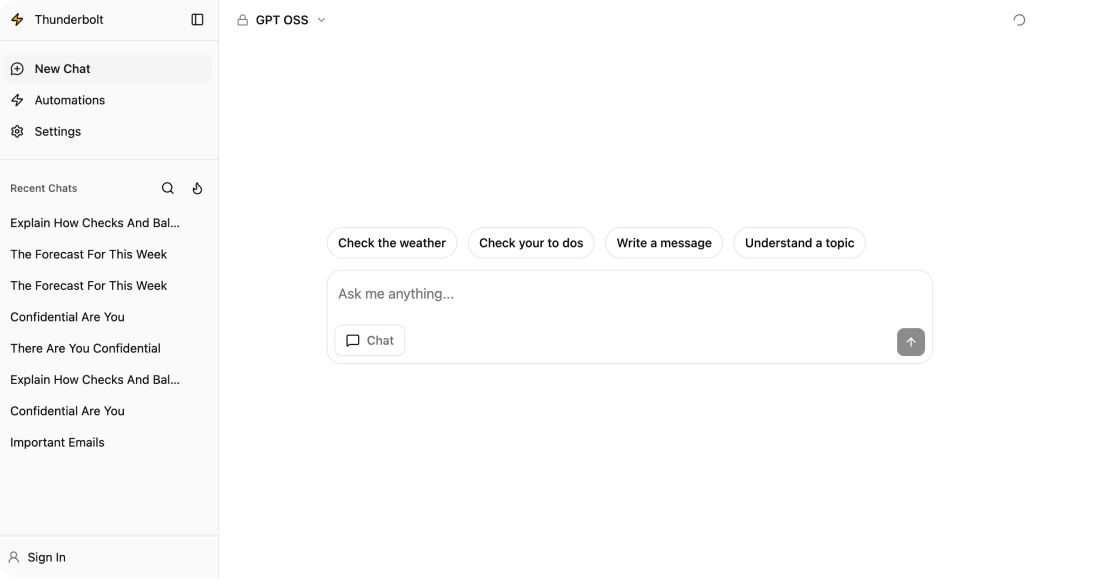
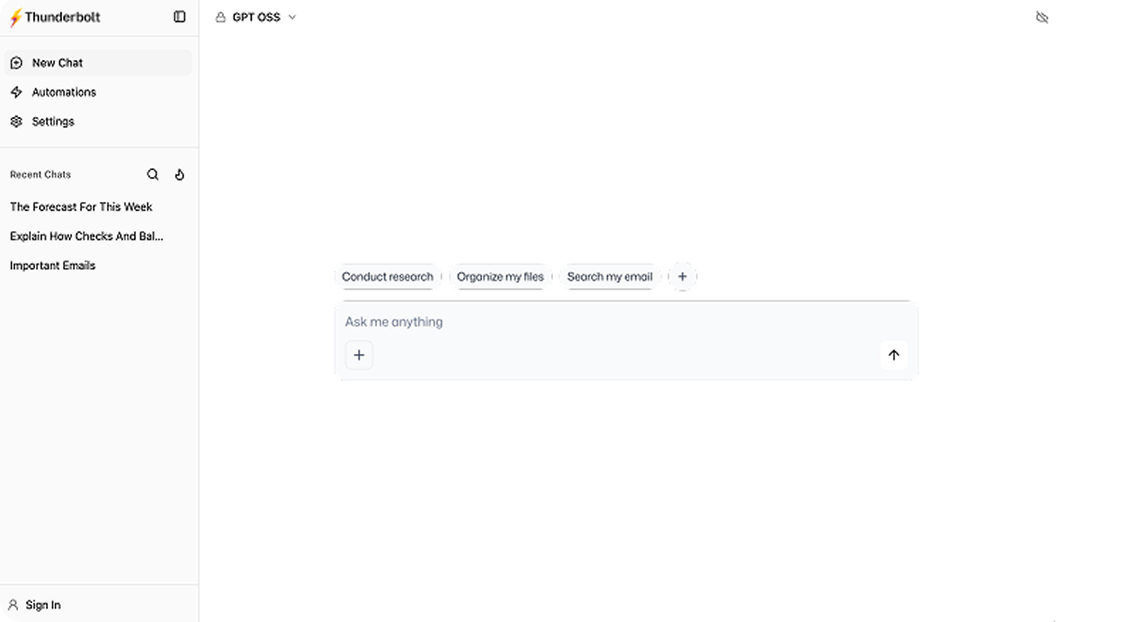
fix: update social preview and hero images

diff --git a/marketing/src/components/sections/enterprise-page.tsx b/marketing/src/components/sections/enterprise-page.tsx
@@ -44,7 +44,7 @@ const PromptCard = ({ pillGapClass = 'gap-1.5 sm:gap-2' }: { pillGapClass?: stri
     <div className="absolute -bottom-[12px] -right-[12px] size-[23px] bg-[#eaecf0]" />
     <div className="border-[0.5px] border-[#eaecf0] bg-gradient-to-b from-[rgba(241,241,241,0.3)] to-[rgba(228,228,228,0.3)] p-5 backdrop-blur-[5px]">
       <div className={`flex items-center ${pillGapClass}`}>
-        {['Check the weather', 'Write a message', 'Check the schedule'].map((label) => (
+        {['Conduct research', 'Organize my files', 'Search my email'].map((label) => (
           <span key={label} className="shrink-0 rounded-full bg-white px-2 py-1 text-[9px] sm:px-3.5 sm:py-1.5 sm:text-[11px] whitespace-nowrap text-[#344054] shadow-[0px_2px_8px_0px_rgba(0,0,0,0.08)]">
             {label}
           </span>
@@ -60,6 +60,125 @@ const PromptCard = ({ pillGapClass = 'gap-1.5 sm:gap-2' }: { pillGapClass?: stri
       </div>
     </div>
   </>
+)
+
+/* ─── Desktop Mockup (inline SVG with clipped screenshot) */
+
+const DesktopMockup = () => (
+  <svg viewBox="0 0 726 350" fill="none" xmlns="http://www.w3.org/2000/svg" className="relative w-full">
+    <defs>
+      <clipPath id="desktop-screen-clip">
+        <rect x="89.207" y="19.834" width="547.279" height="290.599" />
+      </clipPath>
+      <filter id="filter0_i" x="0.675171" y="331.449" width="724.651" height="3.94098" filterUnits="userSpaceOnUse" colorInterpolationFilters="sRGB">
+        <feFlood floodOpacity="0" result="BackgroundImageFix" />
+        <feBlend mode="normal" in="SourceGraphic" in2="BackgroundImageFix" result="shape" />
+        <feColorMatrix in="SourceAlpha" type="matrix" values="0 0 0 0 0 0 0 0 0 0 0 0 0 0 0 0 0 0 127 0" result="hardAlpha" />
+        <feOffset dy="1.53255" />
+        <feComposite in2="hardAlpha" operator="arithmetic" k2="-1" k3="1" />
+        <feColorMatrix type="matrix" values="0 0 0 0 0 0 0 0 0 0 0 0 0 0 0 0 0 0 0.02 0" />
+        <feBlend mode="normal" in2="shape" result="effect1_innerShadow" />
+      </filter>
+      <filter id="filter1_i" x="293.499" y="331.446" width="138.655" height="5.25488" filterUnits="userSpaceOnUse" colorInterpolationFilters="sRGB">
+        <feFlood floodOpacity="0" result="BackgroundImageFix" />
+        <feBlend mode="normal" in="SourceGraphic" in2="BackgroundImageFix" result="shape" />
+        <feColorMatrix in="SourceAlpha" type="matrix" values="0 0 0 0 0 0 0 0 0 0 0 0 0 0 0 0 0 0 127 0" result="hardAlpha" />
+        <feOffset dy="1.53255" />
+        <feComposite in2="hardAlpha" operator="arithmetic" k2="-1" k3="1" />
+        <feColorMatrix type="matrix" values="0 0 0 0 0 0 0 0 0 0 0 0 0 0 0 0 0 0 0.03 0" />
+        <feBlend mode="normal" in2="shape" result="effect1_innerShadow" />
+      </filter>
+      <linearGradient id="paint0" x1="0.337891" y1="335.718" x2="725.663" y2="335.718" gradientUnits="userSpaceOnUse">
+        <stop stopOpacity="0.04" />
+        <stop offset="1" stopColor="white" stopOpacity="0.04" />
+      </linearGradient>
+      <linearGradient id="paint1" x1="732.498" y1="330.551" x2="697.996" y2="330.551" gradientUnits="userSpaceOnUse">
+        <stop />
+        <stop offset="1" stopColor="white" />
+        <stop offset="1" stopColor="white" />
+      </linearGradient>
+      <linearGradient id="paint2" x1="0.337891" y1="335.718" x2="28.0015" y2="335.718" gradientUnits="userSpaceOnUse">
+        <stop />
+        <stop offset="1" stopColor="white" />
+        <stop offset="1" stopColor="white" />
+      </linearGradient>
+      <linearGradient id="paint3" x1="0" y1="349.181" x2="726" y2="349.181" gradientUnits="userSpaceOnUse">
+        <stop stopOpacity="0.07" />
+        <stop offset="1" stopColor="#EAEAEA" stopOpacity="0.07" />
+        <stop offset="1" stopColor="white" stopOpacity="0.07" />
+      </linearGradient>
+      <linearGradient id="paint4" x1="0" y1="349.181" x2="726" y2="349.181" gradientUnits="userSpaceOnUse">
+        <stop stopOpacity="0.07" />
+        <stop offset="1" stopColor="#EAEAEA" stopOpacity="0.07" />
+        <stop offset="1" stopColor="white" stopOpacity="0.07" />
+      </linearGradient>
+      <linearGradient id="paint5" x1="0" y1="334.731" x2="0" y2="349.181" gradientUnits="userSpaceOnUse">
+        <stop stopOpacity="0.07" />
+        <stop offset="1" stopColor="white" stopOpacity="0.07" />
+      </linearGradient>
+      <linearGradient id="paint6" x1="0" y1="334.731" x2="0" y2="349.181" gradientUnits="userSpaceOnUse">
+        <stop stopColor="white" stopOpacity="0.05" />
+        <stop offset="1" stopOpacity="0.05" />
+      </linearGradient>
+      <linearGradient id="paint7" x1="363" y1="334.731" x2="363.255" y2="358.473" gradientUnits="userSpaceOnUse">
+        <stop stopColor="#EBEBEB" />
+        <stop offset="1" stopColor="#585858" stopOpacity="0" />
+      </linearGradient>
+      <linearGradient id="paint8" x1="292.824" y1="337.029" x2="307.331" y2="337.029" gradientUnits="userSpaceOnUse">
+        <stop />
+        <stop offset="1" stopColor="white" />
+        <stop offset="1" stopColor="white" />
+      </linearGradient>
+      <linearGradient id="paint9" x1="432.493" y1="330.789" x2="418.324" y2="330.789" gradientUnits="userSpaceOnUse">
+        <stop />
+        <stop offset="1" stopColor="white" />
+        <stop offset="1" stopColor="white" />
+      </linearGradient>
+    </defs>
+    {/* Outer body */}
+    <path d="M637.696 0.25C644.31 0.250036 649.459 1.4171 652.955 4.39355C656.46 7.37802 658.25 12.1353 658.25 19.1865V320.49C658.25 328.619 656.012 332.973 652.484 335.269C648.985 337.546 644.279 337.75 639.476 337.75H105.32C96.0761 337.75 86.932 337.755 80.1064 334.552C76.6823 332.945 73.8366 330.53 71.8506 326.907C69.8668 323.289 68.75 318.482 68.75 312.106V14.1572C68.75 8.94251 70.5545 5.45501 73.0625 3.27539C75.5633 1.10229 78.7392 0.250006 81.4551 0.25H637.696Z" fill="#F9FAFB" stroke="#EFF1F4" strokeWidth="0.5" />
+    {/* Camera dot */}
+    <path fillRule="evenodd" clipRule="evenodd" d="M361.819 37.9134C363.03 37.9134 364.012 38.8691 364.012 40.0481C364.012 41.227 363.03 42.1828 361.819 42.1828C360.608 42.1828 359.627 41.227 359.627 40.0481C359.627 38.8691 360.608 37.9134 361.819 37.9134Z" fill="#F2F2F2" />
+    {/* White screen background */}
+    <rect x="89.207" y="19.834" width="547.279" height="290.599" fill="#FFFFFF" />
+    {/* Screenshot clipped to screen */}
+    <image
+      href="/enterprise/desktop_screenshot.png"
+      x="89.207" y="19.834" width="547.279" height="290.599"
+      preserveAspectRatio="xMidYMin slice"
+      clipPath="url(#desktop-screen-clip)"
+    />
+    {/* Screen border */}
+    <path d="M636.986 19.3337V310.933H88.707V19.3337H636.986Z" stroke="#E1E1E1" fill="none" />
+    {/* Hinge bar */}
+    <g filter="url(#filter0_i)">
+      <path fillRule="evenodd" clipRule="evenodd" d="M0.675167 331.449H725.326V335.39H0.675167V331.449Z" fill="white" />
+      <path fillRule="evenodd" clipRule="evenodd" d="M0.675167 331.449H725.326V335.39H0.675167V331.449Z" fill="url(#paint0)" style={{ mixBlendMode: 'multiply' }} />
+    </g>
+    <g opacity="0.1" style={{ mixBlendMode: 'multiply' }}>
+      <path fillRule="evenodd" clipRule="evenodd" d="M698.333 331.448H725.322V335.389H698.333V331.448Z" fill="url(#paint1)" />
+    </g>
+    <g opacity="0.1" style={{ mixBlendMode: 'multiply' }}>
+      <path fillRule="evenodd" clipRule="evenodd" d="M0.675248 331.449H27.6641V335.39H0.675248V331.449Z" fill="url(#paint2)" />
+    </g>
+    {/* Base */}
+    <path fillRule="evenodd" clipRule="evenodd" d="M0.674454 335.388H725.326C721.043 337.991 683.056 348.672 556.645 345.897C545.481 345.897 230.866 345.569 161.933 345.569C81.9298 345.569 48.8112 345.882 18.5834 340.211C8.00125 338.226 2.70217 336.587 0.674454 335.388Z" fill="white" />
+    <path fillRule="evenodd" clipRule="evenodd" d="M0.674454 335.388H725.326C721.043 337.991 683.056 348.672 556.645 345.897C545.481 345.897 230.866 345.569 161.933 345.569C81.9298 345.569 48.8112 345.882 18.5834 340.211C8.00125 338.226 2.70217 336.587 0.674454 335.388Z" fill="url(#paint3)" style={{ mixBlendMode: 'multiply' }} />
+    <path fillRule="evenodd" clipRule="evenodd" d="M0.674454 335.388H725.326C721.043 337.991 683.056 348.672 556.645 345.897C545.481 345.897 230.866 345.569 161.933 345.569C81.9298 345.569 48.8112 345.882 18.5834 340.211C8.00125 338.226 2.70217 336.587 0.674454 335.388Z" fill="url(#paint4)" style={{ mixBlendMode: 'multiply' }} />
+    <path fillRule="evenodd" clipRule="evenodd" d="M0.674454 335.388H725.326C721.043 337.991 683.056 348.672 556.645 345.897C545.481 345.897 230.866 345.569 161.933 345.569C81.9298 345.569 48.8112 345.882 18.5834 340.211C8.00125 338.226 2.70217 336.587 0.674454 335.388Z" fill="url(#paint5)" style={{ mixBlendMode: 'multiply' }} />
+    <path fillRule="evenodd" clipRule="evenodd" d="M0.674454 335.388H725.326C721.043 337.991 683.056 348.672 556.645 345.897C545.481 345.897 230.866 345.569 161.933 345.569C81.9298 345.569 48.8112 345.882 18.5834 340.211C8.00125 338.226 2.70217 336.587 0.674454 335.388Z" fill="url(#paint6)" style={{ mixBlendMode: 'multiply' }} />
+    <path fillRule="evenodd" clipRule="evenodd" d="M0.674454 335.388H725.326C721.043 337.991 683.056 348.672 556.645 345.897C545.481 345.897 230.866 345.569 161.933 345.569C81.9298 345.569 48.8112 345.882 18.5834 340.211C8.00125 338.226 2.70217 336.587 0.674454 335.388Z" fill="url(#paint7)" />
+    {/* Trackpad notch */}
+    <g filter="url(#filter1_i)">
+      <path d="M432.154 331.446C432.154 331.446 432.154 333.674 432.154 335.059C432.154 336.439 418.734 336.7 418.66 336.701H306.993C306.94 336.7 293.499 336.44 293.499 335.059V331.446H432.154Z" fill="white" />
+    </g>
+    <g opacity="0.07" style={{ mixBlendMode: 'multiply' }}>
+      <path fillRule="evenodd" clipRule="evenodd" d="M293.499 331.446H306.993V336.701C306.993 336.701 293.499 336.443 293.499 335.059C293.499 333.674 293.499 331.446 293.499 331.446Z" fill="url(#paint8)" />
+    </g>
+    <g opacity="0.07" style={{ mixBlendMode: 'multiply' }}>
+      <path fillRule="evenodd" clipRule="evenodd" d="M432.156 331.446H418.662V336.701C418.662 336.701 432.156 336.443 432.156 335.059C432.156 333.674 432.156 331.446 432.156 331.446Z" fill="url(#paint9)" />
+    </g>
+  </svg>
 )
 
 /* ─── Hero ────────────────────────────────────────────── */
@@ -87,28 +206,37 @@ const Hero = () => (
           className="absolute left-[8%] lg:left-[24.2%] w-[85%] lg:w-[73.4%]"
           style={{ top: '10.9%', filter: 'drop-shadow(0px 50px 100px rgba(50, 50, 93, 0.25))' }}
         >
-          <img src="/enterprise/desktop_device.svg" alt="" className="relative w-full" fetchPriority="high" />
-          <img
-            src="/enterprise/desktop_screenshot.png"
-            alt="Thunderbolt desktop app"
-            className="absolute z-10"
-            style={{ top: '5.7%', left: '12.7%', width: '74.5%', height: '83%', objectFit: 'cover' }}
-            fetchPriority="high"
-          />
+          <DesktopMockup />
         </div>
         {/* iPhone frame + screenshot */}
         <div
           className="absolute z-20 left-[62%] lg:left-[77%] w-[28%] lg:w-[23%]"
           style={{ top: '0%', filter: 'drop-shadow(0px 50px 100px rgba(50, 50, 93, 0.25))' }}
         >
-          <img src="/enterprise/mobile_device.svg" alt="" className="relative w-full" fetchPriority="high" />
-          <img
-            src="/enterprise/mobile_screenshot.png"
-            alt="Thunderbolt mobile app"
-            className="absolute z-10"
-            style={{ top: '4.1%', left: '8%', width: '83.5%', height: '91%', objectFit: 'cover', borderRadius: '6%' }}
-            fetchPriority="high"
-          />
+          <svg viewBox="0 0 228 452" fill="none" xmlns="http://www.w3.org/2000/svg" className="relative w-full">
+            <defs>
+              <clipPath id="mobile-screen-clip">
+                <path d="M169.388 18.4507C176.045 18.4363 182.728 18.3336 189.4 18.4878C198.419 18.6976 205.801 24.5205 208.337 33.1489V33.1499C208.813 34.7742 209.052 36.4585 209.047 38.1509C209.039 51.5419 209.04 64.9321 209.049 78.3208C209.049 188.645 209.053 298.972 209.061 409.302C209.061 412.09 208.921 414.915 207.832 417.631C204.94 424.84 199.641 429.156 191.989 430.542L191.99 430.542C190.627 430.793 189.254 430.792 187.938 430.792H42.998C41.2406 430.792 39.4564 430.816 37.6797 430.755V430.754C28.1294 430.451 20.2682 423.728 18.4424 414.405L18.3594 413.958C18.1164 412.553 18.0947 411.156 18.0947 409.795C18.0911 368.299 18.0898 326.806 18.0918 285.317V224.723C18.0915 224.717 18.0898 224.71 18.0898 224.704C18.0898 167.937 18.0902 111.171 18.0918 54.4048C18.0918 48.8426 18.0148 43.2535 18.1523 37.6763C18.3741 28.7266 25.1034 20.8076 33.8535 18.9478L34.4424 18.8296C35.8189 18.5719 37.2168 18.4414 38.6182 18.4399C44.8435 18.4411 51.0683 18.4395 57.292 18.4351V18.436C58.2061 18.4337 59.1562 18.5775 59.917 19.3237L60.0664 19.481C60.6439 20.1332 60.8386 20.9001 60.8535 21.686C60.8802 23.0185 60.9055 24.2972 61.1797 25.5356C62.2175 30.22 66.2449 33.5613 71.0557 33.5991C78.7224 33.6604 86.3894 33.6204 94.0635 33.6216C114.304 33.6228 134.545 33.6228 154.786 33.6216C155.84 33.6216 156.827 33.6263 157.802 33.4224H157.804C162.44 32.4787 165.843 28.5158 166.068 23.8003V23.7983C166.088 23.4267 166.096 23.0541 166.105 22.6694C166.115 22.2881 166.127 21.8967 166.155 21.5044C166.221 20.6031 166.534 19.8294 167.108 19.2798C167.684 18.7284 168.471 18.4527 169.388 18.4507Z" />
+              </clipPath>
+            </defs>
+            {/* Outer body */}
+            <path d="M192.548 0.25C211.738 0.25 227.301 15.5684 227.301 34.4727V417.387C227.301 436.291 211.738 451.609 192.548 451.609H35.0029C15.8131 451.609 0.25 436.291 0.25 417.387V34.4727C0.25 15.5685 15.8131 0.250059 35.0029 0.25H192.548Z" fill="#F9FAFB" stroke="#EFF1F4" strokeWidth="0.5" />
+            {/* White screen background */}
+            <path d="M169.388 18.4507C176.045 18.4363 182.728 18.3336 189.4 18.4878C198.419 18.6976 205.801 24.5205 208.337 33.1489V33.1499C208.813 34.7742 209.052 36.4585 209.047 38.1509C209.039 51.5419 209.04 64.9321 209.049 78.3208C209.049 188.645 209.053 298.972 209.061 409.302C209.061 412.09 208.921 414.915 207.832 417.631C204.94 424.84 199.641 429.156 191.989 430.542L191.99 430.542C190.627 430.793 189.254 430.792 187.938 430.792H42.998C41.2406 430.792 39.4564 430.816 37.6797 430.755V430.754C28.1294 430.451 20.2682 423.728 18.4424 414.405L18.3594 413.958C18.1164 412.553 18.0947 411.156 18.0947 409.795C18.0911 368.299 18.0898 326.806 18.0918 285.317V224.723C18.0915 224.717 18.0898 224.71 18.0898 224.704C18.0898 167.937 18.0902 111.171 18.0918 54.4048C18.0918 48.8426 18.0148 43.2535 18.1523 37.6763C18.3741 28.7266 25.1034 20.8076 33.8535 18.9478L34.4424 18.8296C35.8189 18.5719 37.2168 18.4414 38.6182 18.4399C44.8435 18.4411 51.0683 18.4395 57.292 18.4351V18.436C58.2061 18.4337 59.1562 18.5775 59.917 19.3237L60.0664 19.481C60.6439 20.1332 60.8386 20.9001 60.8535 21.686C60.8802 23.0185 60.9055 24.2972 61.1797 25.5356C62.2175 30.22 66.2449 33.5613 71.0557 33.5991C78.7224 33.6604 86.3894 33.6204 94.0635 33.6216C114.304 33.6228 134.545 33.6228 154.786 33.6216C155.84 33.6216 156.827 33.6263 157.802 33.4224H157.804C162.44 32.4787 165.843 28.5158 166.068 23.8003V23.7983C166.088 23.4267 166.096 23.0541 166.105 22.6694C166.115 22.2881 166.127 21.8967 166.155 21.5044C166.221 20.6031 166.534 19.8294 167.108 19.2798C167.684 18.7284 168.471 18.4527 169.388 18.4507Z" fill="#FFFFFF" />
+            {/* Screenshot clipped to screen area */}
+            <image
+              href="/enterprise/mobile_screenshot.png"
+              x="18" y="18" width="191" height="413"
+              preserveAspectRatio="xMidYMin slice"
+              clipPath="url(#mobile-screen-clip)"
+            />
+            {/* Screen border */}
+            <path d="M169.388 18.4507C176.045 18.4363 182.728 18.3336 189.4 18.4878C198.419 18.6976 205.801 24.5205 208.337 33.1489V33.1499C208.813 34.7742 209.052 36.4585 209.047 38.1509C209.039 51.5419 209.04 64.9321 209.049 78.3208C209.049 188.645 209.053 298.972 209.061 409.302C209.061 412.09 208.921 414.915 207.832 417.631C204.94 424.84 199.641 429.156 191.989 430.542L191.99 430.542C190.627 430.793 189.254 430.792 187.938 430.792H42.998C41.2406 430.792 39.4564 430.816 37.6797 430.755V430.754C28.1294 430.451 20.2682 423.728 18.4424 414.405L18.3594 413.958C18.1164 412.553 18.0947 411.156 18.0947 409.795C18.0911 368.299 18.0898 326.806 18.0918 285.317V224.723C18.0915 224.717 18.0898 224.71 18.0898 224.704C18.0898 167.937 18.0902 111.171 18.0918 54.4048C18.0918 48.8426 18.0148 43.2535 18.1523 37.6763C18.3741 28.7266 25.1034 20.8076 33.8535 18.9478L34.4424 18.8296C35.8189 18.5719 37.2168 18.4414 38.6182 18.4399C44.8435 18.4411 51.0683 18.4395 57.292 18.4351V18.436C58.2061 18.4337 59.1562 18.5775 59.917 19.3237L60.0664 19.481C60.6439 20.1332 60.8386 20.9001 60.8535 21.686C60.8802 23.0185 60.9055 24.2972 61.1797 25.5356C62.2175 30.22 66.2449 33.5613 71.0557 33.5991C78.7224 33.6604 86.3894 33.6204 94.0635 33.6216C114.304 33.6228 134.545 33.6228 154.786 33.6216C155.84 33.6216 156.827 33.6263 157.802 33.4224H157.804C162.44 32.4787 165.843 28.5158 166.068 23.8003V23.7983C166.088 23.4267 166.096 23.0541 166.105 22.6694C166.115 22.2881 166.127 21.8967 166.155 21.5044C166.221 20.6031 166.534 19.8294 167.108 19.2798C167.684 18.7284 168.471 18.4527 169.388 18.4507Z" stroke="#E1E1E1" strokeLinejoin="round" fill="none" />
+            {/* Notch speaker */}
+            <path opacity="0.4" fillRule="evenodd" clipRule="evenodd" d="M98.547 24.4338C98.5467 23.4675 99.3426 22.6839 100.325 22.6837L118.567 22.6792C119.549 22.6789 120.345 23.4621 120.345 24.4284C120.345 25.3947 119.549 26.1783 118.567 26.1785L100.326 26.183C99.3435 26.1833 98.5472 25.4001 98.547 24.4338Z" fill="#C8C8C8" />
+            {/* Notch camera */}
+            <path opacity="0.546196" fillRule="evenodd" clipRule="evenodd" d="M125.41 24.4259C125.41 23.4623 126.204 22.6773 127.183 22.677C128.162 22.6768 128.956 23.4615 128.956 24.425C128.957 25.3886 128.163 26.1737 127.184 26.1739C126.205 26.1741 125.411 25.3895 125.41 24.4259Z" fill="#C8C8C8" />
+          </svg>
         </div>
         {/* Prompt input card overlay — desktop only */}
         <div className="absolute z-30 hidden lg:block" style={{ left: '0%', top: '26.8%', width: '66.8%' }}>
